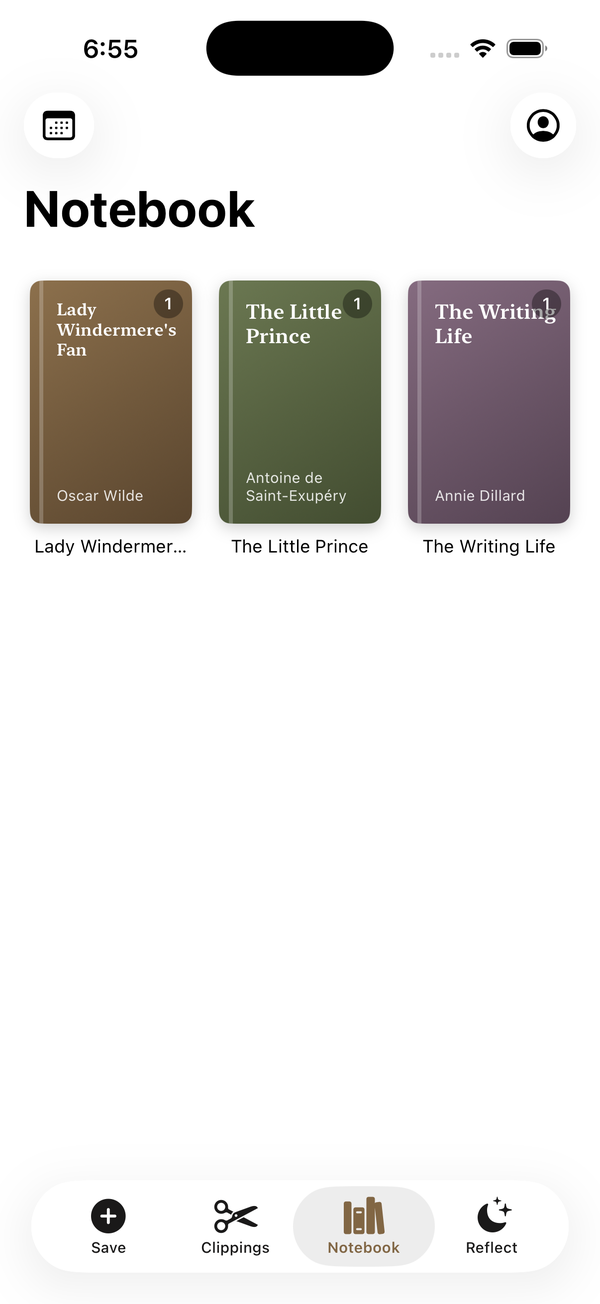
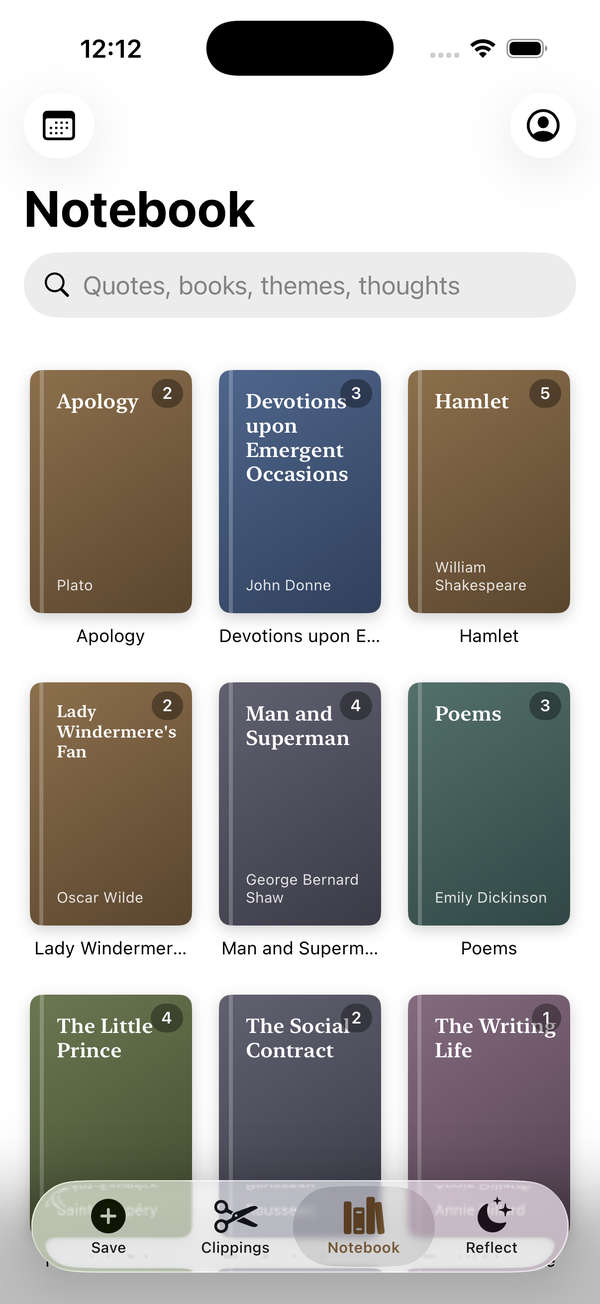
Update screenshots to latest build, group by feature

diff --git a/README.md b/README.md
@@ -30,21 +30,47 @@ Quotee starts from the opposite principle:
 
 ## Screenshots
 
+**Capture & notebook**
+
 <table>
   <tr>
-    <td align="center" width="33%"><img src="assets/screens/01-save.png" width="240"><br><sub><b>Save</b> — camera, image or paste</sub></td>
-    <td align="center" width="33%"><img src="assets/screens/02-clippings.png" width="240"><br><sub><b>Clippings</b> — save first, organize later</sub></td>
-    <td align="center" width="33%"><img src="assets/screens/03-notebook.png" width="240"><br><sub><b>Notebook</b> — a shelf of the books you've quoted</sub></td>
+    <td align="center" width="25%"><img src="assets/screens/01-save.png" width="200"><br><sub><b>Save</b><br>camera, image or paste</sub></td>
+    <td align="center" width="25%"><img src="assets/screens/02-clippings.png" width="200"><br><sub><b>Clippings</b><br>save first, organize later</sub></td>
+    <td align="center" width="25%"><img src="assets/screens/03-notebook.png" width="200"><br><sub><b>Notebook</b><br>a shelf of the books you've quoted</sub></td>
+    <td align="center" width="25%"><img src="assets/screens/04-looking-back.png" width="200"><br><sub><b>Looking Back</b><br>a quiet calendar, no streaks</sub></td>
   </tr>
+</table>
+
+**Reflect — grounded in your notebook**
+
+<table>
   <tr>
-    <td align="center" width="33%"><img src="assets/screens/04-looking-back.png" width="240"><br><sub><b>Looking Back</b> — a quiet calendar, no streaks</sub></td>
-    <td align="center" width="33%"><img src="assets/screens/05-reflect-home.png" width="240"><br><sub><b>Reflect</b> — "only a mirror; the reflection is yours"</sub></td>
-    <td align="center" width="33%"><img src="assets/screens/06-reflect-sources.png" width="240"><br><sub><b>Grounded answers</b> — source quote shown inline</sub></td>
+    <td align="center" width="25%"><img src="assets/screens/05-reflect-home.png" width="200"><br><sub><b>Reflect</b><br>without sending your whole notebook</sub></td>
+    <td align="center" width="25%"><img src="assets/screens/06-grounded-answer.png" width="200"><br><sub><b>Grounded answer</b><br>connects your quotes and notes</sub></td>
+    <td align="center" width="25%"><img src="assets/screens/07-sources-and-memory.png" width="200"><br><sub><b>Sources & memory</b><br>quotes plus a past reflection, recalled</sub></td>
+    <td align="center" width="25%"><img src="assets/screens/08-web-separated.png" width="200"><br><sub><b>Web, labelled</b><br>outside context kept apart</sub></td>
   </tr>
+</table>
+
+**Reflection cards & long-term memory**
+
+<table>
   <tr>
-    <td align="center" width="33%"><img src="assets/screens/07-reflect-ai.png" width="240"><br><sub><b>AI reflection</b> — connects your quotes and notes</sub></td>
-    <td align="center" width="33%"><img src="assets/screens/08-ai-settings.png" width="240"><br><sub><b>Opt-in AI</b> — choose provider, key in Keychain</sub></td>
-    <td align="center" width="33%"><img src="assets/screens/09-privacy.png" width="240"><br><sub><b>Privacy, in plain words</b></sub></td>
+    <td align="center" width="25%"><img src="assets/screens/09-card-insight.png" width="200"><br><sub><b>Reflection card</b><br>core insight + your own words</sub></td>
+    <td align="center" width="25%"><img src="assets/screens/10-card-details.png" width="200"><br><sub><b>Card details</b><br>themes, a question to return to</sub></td>
+    <td align="center" width="25%"><img src="assets/screens/11-reflection-notes.png" width="200"><br><sub><b>Reflection Notes</b><br>confirmed cards, searchable</sub></td>
+    <td align="center" width="25%"><img src="assets/screens/12-knowledge-map.png" width="200"><br><sub><b>Knowledge Map</b><br>books, quotes, themes, reflections</sub></td>
+  </tr>
+</table>
+
+**Control, sharing & privacy**
+
+<table>
+  <tr>
+    <td align="center" width="25%"><img src="assets/screens/13-choose-sources.png" width="200"><br><sub><b>Choose sources</b><br>scope a conversation yourself</sub></td>
+    <td align="center" width="25%"><img src="assets/screens/14-share-card.png" width="200"><br><sub><b>Share card</b><br>pick what to include</sub></td>
+    <td align="center" width="25%"><img src="assets/screens/15-ai-settings.png" width="200"><br><sub><b>Opt-in AI</b><br>choose provider, key in Keychain</sub></td>
+    <td align="center" width="25%"><img src="assets/screens/16-privacy.png" width="200"><br><sub><b>Privacy, in plain words</b></sub></td>
   </tr>
 </table>
 
@@ -57,6 +83,7 @@ Quotee starts from the opposite principle:
 | **Juxtaposition** | Puts two ideas from different books side by side when they share a theme, without deciding for you whether they agree or conflict. |
 | **User-owned conclusions** | Once a conversation reaches real insight, the AI drafts a *reflection card*. Drafts never enter long-term memory until you edit or confirm them in your own words. |
 | **Memory across conversations** | Confirmed cards become retrievable in future conversations and appear on a knowledge map of books, quotes, themes and reflections. |
+| **You choose the scope** | Pin specific quotes as sources for a conversation, or let retrieval decide. |
 | **Separated sources** | Optional web search is always labelled apart from your own notebook. Outside content is never passed off as your thinking. |
 | **Private by default** | Data lives on the device. AI is opt-in, and each request sends only the few retrieved items rather than the whole notebook. |
 
